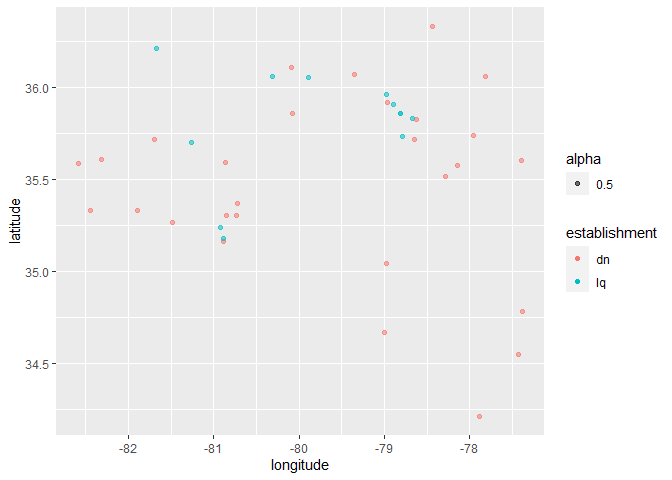
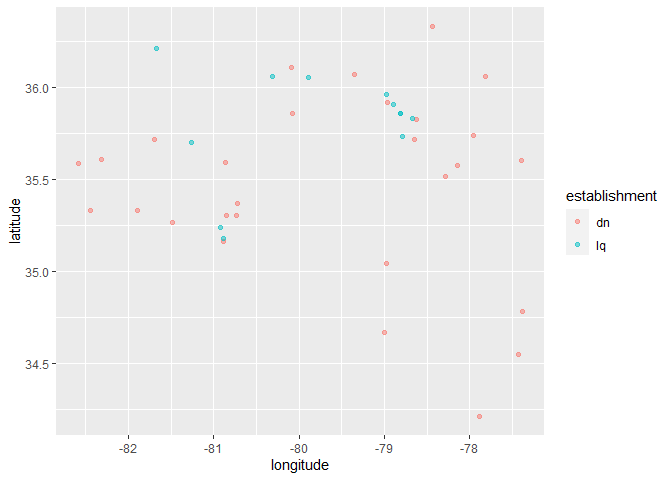
1

Changed region(s): [[0.8438, 0.375, 1.0, 0.5938], [0.8438, 0.3125, 0.9062, 0.3438]]

diff --git a/lab-04_answer.md b/lab-04_answer.md
@@ -287,8 +287,8 @@ ggplot(dn_lq, mapping = aes(x = longitude, y = latitude, color = establishment))
 dn_lqNC <- dn_lq %>%
   filter(state == "NC")
 
-ggplot(dn_lqNC, mapping = aes(x = longitude, y = latitude, color = establishment, alpha = 0.5)) +
-  geom_point()
+ggplot(dn_lqNC, mapping = aes(x = longitude, y = latitude, color = establishment)) +
+  geom_point(alpha=0.5)
 ```
 
 ![](lab-04_answer_files/figure-gfm/unnamed-chunk-8-1.png)<!-- -->
@@ -300,8 +300,8 @@ dn_lqTX<- dn_lq %>%
   filter(state == "TX")
 
 
-ggplot(dn_lqTX, mapping = aes(x = longitude, y = latitude, color = establishment, alpha = .5)) +
-  geom_point()
+ggplot(dn_lqTX, mapping = aes(x = longitude, y = latitude, color = establishment)) +
+  geom_point(alpha=0.5)
 ```
 
 ![](lab-04_answer_files/figure-gfm/unnamed-chunk-9-1.png)<!-- -->
